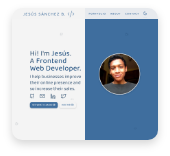
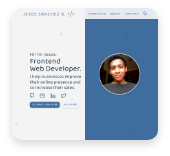
Added new project to portfolio. Changed a project's preview. Added React to my skillset. Fixed a button bug

Changed region(s): [[0.1765, 0.5128, 0.4706, 0.7179], [0.1765, 0.3077, 0.4706, 0.4615]]

diff --git a/index.html b/index.html
@@ -326,35 +326,21 @@
               </div>
             </div>
 
-            <!-- Mini YouTube Player -->
+            <!-- Chuck Norris Jokes Generator -->
             <div class="card fade-in">
-              <img
-                loading="lazy"
-                src="./src/Mobile/Portfolio thumbnails/VueMiniYoutubePlayer.png"
-                alt="Booklist Project thumbnail"
-              />
+              <img loading="lazy" src="./src/Mobile/Portfolio thumbnails/Chuck-Norris-Jokes.png"
+                alt="Chuck Norris Jokes Generator Project thumbnail" />
               <div class="info">
-                <h3 class="title">Mini YouTube Player</h3>
+                <h3 class="title">Chuck Norris Jokes Generator</h3>
                 <div class="stack">
-                  <i class="fab fa-vuejs"></i>
+                  <i class="fab fa-react"></i>
                 </div>
-                <p class="description">
-                  For those times when you only want a minimal YouTube
-                  experience.
-                </p>
+                <p class="description">Because everyone loves a good Chuck Norris joke</p>
                 <div class="btns">
-                  <a
-                    href="https://gsus.github.io/mini-youtube-player/"
-                    target="_blank"
-                    class="btn btn-blue"
-                    >See project <i class="fas fa-external-link-alt"></i
-                  ></a>
-                  <a
-                    href="https://github.com/Gsus/mini-youtube-player"
-                    target="_blank"
-                    class="btn btn-white"
-                    >See code <i class="fab fa-github"></i
-                  ></a>
+                  <a href="https://gsus.github.io/chuck-norris-jokes/" target="_blank" class="btn btn-blue">See project <i
+                      class="fas fa-external-link-alt"></i></a>
+                  <a href="https://github.com/Gsus/chuck-norris-jokes" target="_blank" class="btn btn-white">See code <i
+                      class="fab fa-github"></i></a>
                 </div>
               </div>
             </div>
@@ -424,34 +410,24 @@
               </div>
             </div>
 
-            <!-- NewsGrid -->
+            <!-- Mini YouTube Player -->
             <div class="card fade-in">
-              <img
-                loading="lazy"
-                src="./src/Mobile/Portfolio thumbnails/NewsGrid.png"
-                alt="NewsGrid Project thumbnail"
-              />
+              <img loading="lazy" src="./src/Mobile/Portfolio thumbnails/VueMiniYoutubePlayer.png"
+                alt="Booklist Project thumbnail" />
               <div class="info">
-                <h3 class="title">NewsGrid</h3>
+                <h3 class="title">Mini YouTube Player</h3>
                 <div class="stack">
-                  <i class="fab fa-html5"></i>
-                  <i class="fab fa-css3-alt"></i>
-                  <i class="fab fa-js-square"></i>
+                  <i class="fab fa-vuejs"></i>
                 </div>
-                <p class="description">A responsive fictional news website.</p>
+                <p class="description">
+                  For those times when you only want a minimal YouTube
+                  experience.
+                </p>
                 <div class="btns">
-                  <a
-                    href="https://gsus.github.io/NewsGrid/"
-                    target="_blank"
-                    class="btn btn-blue"
-                    >See project <i class="fas fa-external-link-alt"></i
-                  ></a>
-                  <a
-                    href="https://github.com/Gsus/NewsGrid"
-                    target="_blank"
-                    class="btn btn-white"
-                    >See code <i class="fab fa-github"></i
-                  ></a>
+                  <a href="https://gsus.github.io/mini-youtube-player/" target="_blank" class="btn btn-blue">See project <i
+                      class="fas fa-external-link-alt"></i></a>
+                  <a href="https://github.com/Gsus/mini-youtube-player" target="_blank" class="btn btn-white">See code <i
+                      class="fab fa-github"></i></a>
                 </div>
               </div>
             </div>
@@ -477,10 +453,15 @@
                 self-improvement.
               </p>
               <p>
-                Currently, I'm learning Vue.js, and these are the tools and
+                Currently, these are the tools and
                 technologies I feel comfortable with, in case you're curious:
               </p>
               <ul class="tech">
+                <!-- React.js logo -->
+                <li>
+                  <img src="/src/Mobile/SVGs/react.svg" alt="React.js logo" />
+                  <p>React.js</p>
+                </li>
                 <!-- Vue.js logo -->
                 <li>
                   <img src="/src/Mobile/SVGs/vuejs.svg" alt="Vue.js logo" />

diff --git a/main.js b/main.js
@@ -92,26 +92,26 @@ const smallSize = matchMedia("(max-width: 767px)"),
   smallSizeImgPaths = [
     "src/Mobile/SVGs/Code navbar icon.svg",
     "src/Mobile/Portfolio thumbnails/L'indécis.png",
-    "src/Mobile/Portfolio thumbnails/VueMiniYoutubePlayer.png",
+    "src/Mobile/Portfolio thumbnails/Chuck-Norris-Jokes.png",
     "src/Mobile/Portfolio thumbnails/Portfolio.png",
     "src/Mobile/Portfolio thumbnails/RGBGuessingGame.png",
-    "src/Mobile/Portfolio thumbnails/NewsGrid.png",
+    "src/Mobile/Portfolio thumbnails/VueMiniYoutubePlayer.png",
   ],
   tabletSizeImgPaths = [
     "src/Desktop/Illustrations-SVG/Code navbar icon.svg",
     "src/Tablet/Portfolio Thumbnails/L'indécis.png",
-    "src/Tablet/Portfolio Thumbnails/VueMiniYoutubePlayer.png",
+    "src/Tablet/Portfolio Thumbnails/Chuck-Norris-Jokes.png",
     "src/Tablet/Portfolio Thumbnails/Portfolio.png",
     "src/Tablet/Portfolio Thumbnails/RGBGuessingGame.png",
-    "src/Tablet/Portfolio Thumbnails/NewsGrid.png",
+    "src/Tablet/Portfolio Thumbnails/VueMiniYoutubePlayer.png",
   ],
   desktopSizeImgPaths = [
     "src/Desktop/Illustrations-SVG/Code navbar icon.svg",
     "src/Desktop/Portfolio thumbnails/L'indécis.png",
-    "src/Desktop/Portfolio thumbnails/VueMiniYoutubePlayer.png",
+    "src/Desktop/Portfolio thumbnails/Chuck-Norris-Jokes.png",
     "src/Desktop/Portfolio thumbnails/Portfolio.png",
     "src/Desktop/Portfolio thumbnails/RGBGuessingGame.png",
-    "src/Desktop/Portfolio thumbnails/NewsGrid.png",
+    "src/Desktop/Portfolio thumbnails/VueMiniYoutubePlayer.png",
   ],
   cardsImgs = document.querySelectorAll(".card > img"),
   navicon = document.querySelector("#navbar img");

diff --git a/style.css b/style.css
@@ -256,7 +256,7 @@ body.dark #home #home-content .btn-blue:focus {
   text-transform: uppercase;
   text-align: center;
   font-size: 0.8rem;
-  letter-spacing: 1.1px;
+  letter-spacing: 0.7px;
   font-weight: 500;
   transition: background 0.4s;
 }
@@ -841,6 +841,10 @@ body.dark #contact .bmc-btn {
 
   .container {
     max-width: 720px;
+  }
+
+  .btn {
+    letter-spacing: 1.1px;
   }
 
   .btns {
